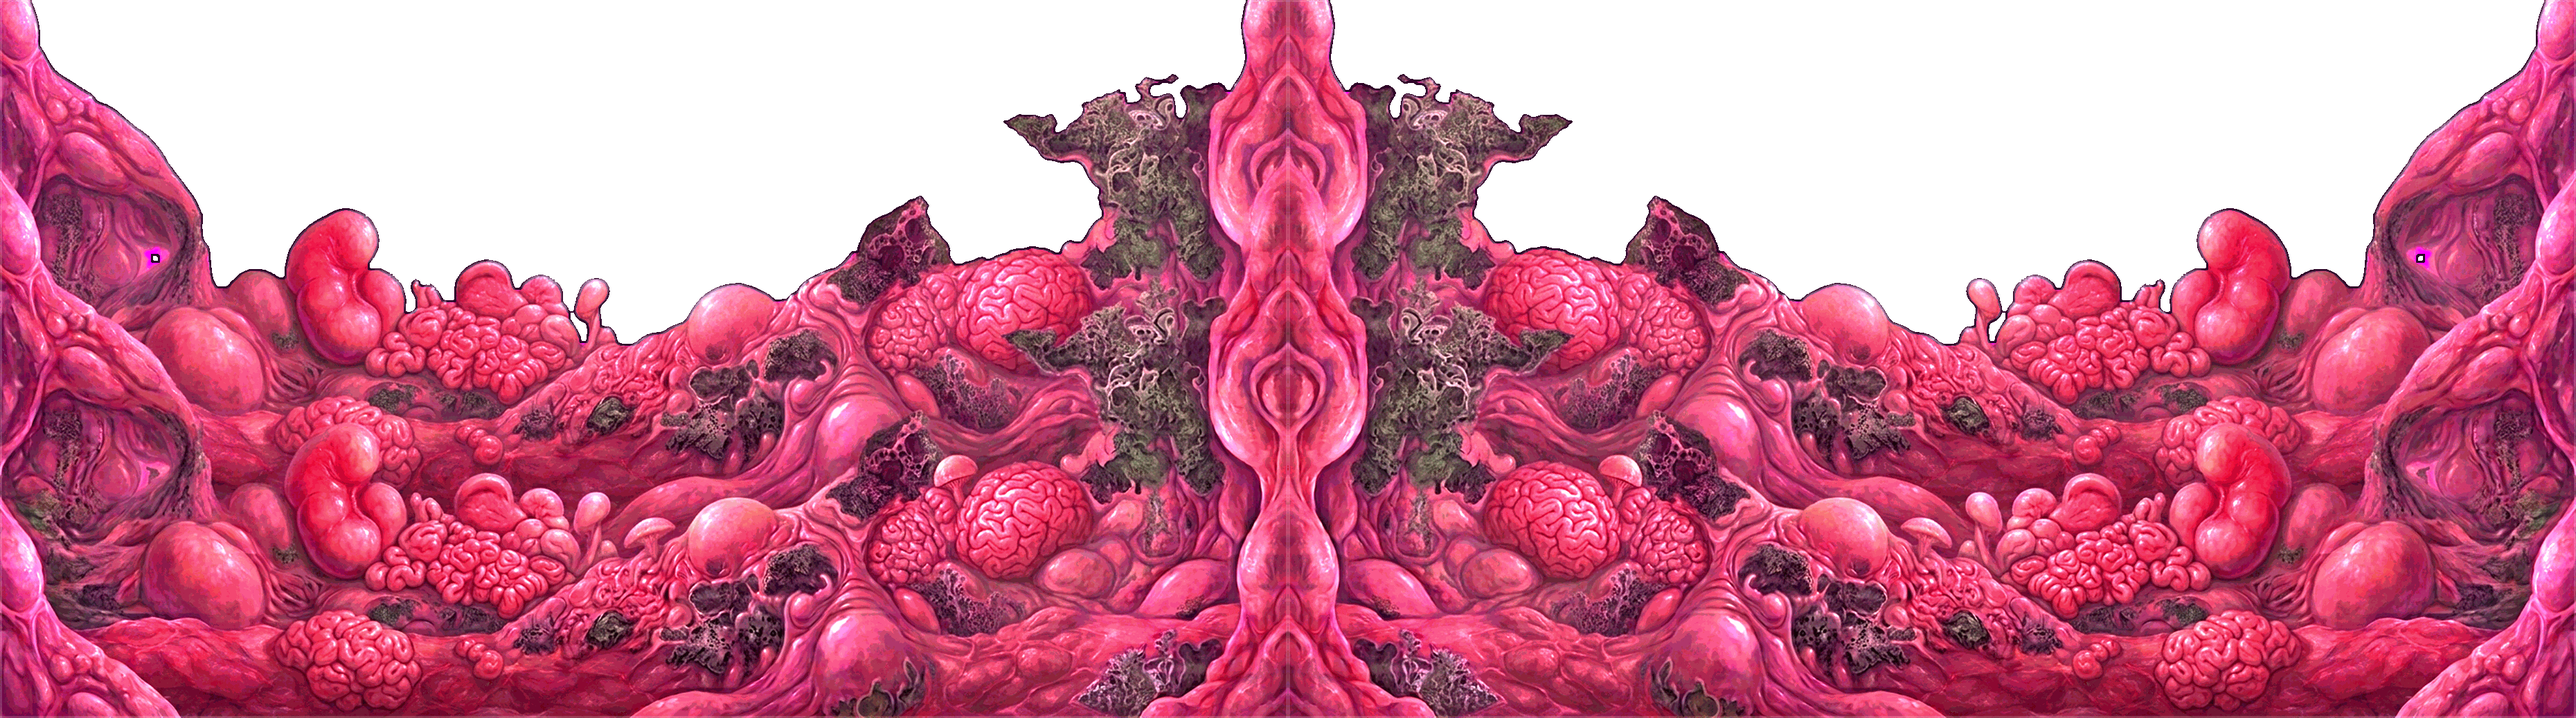
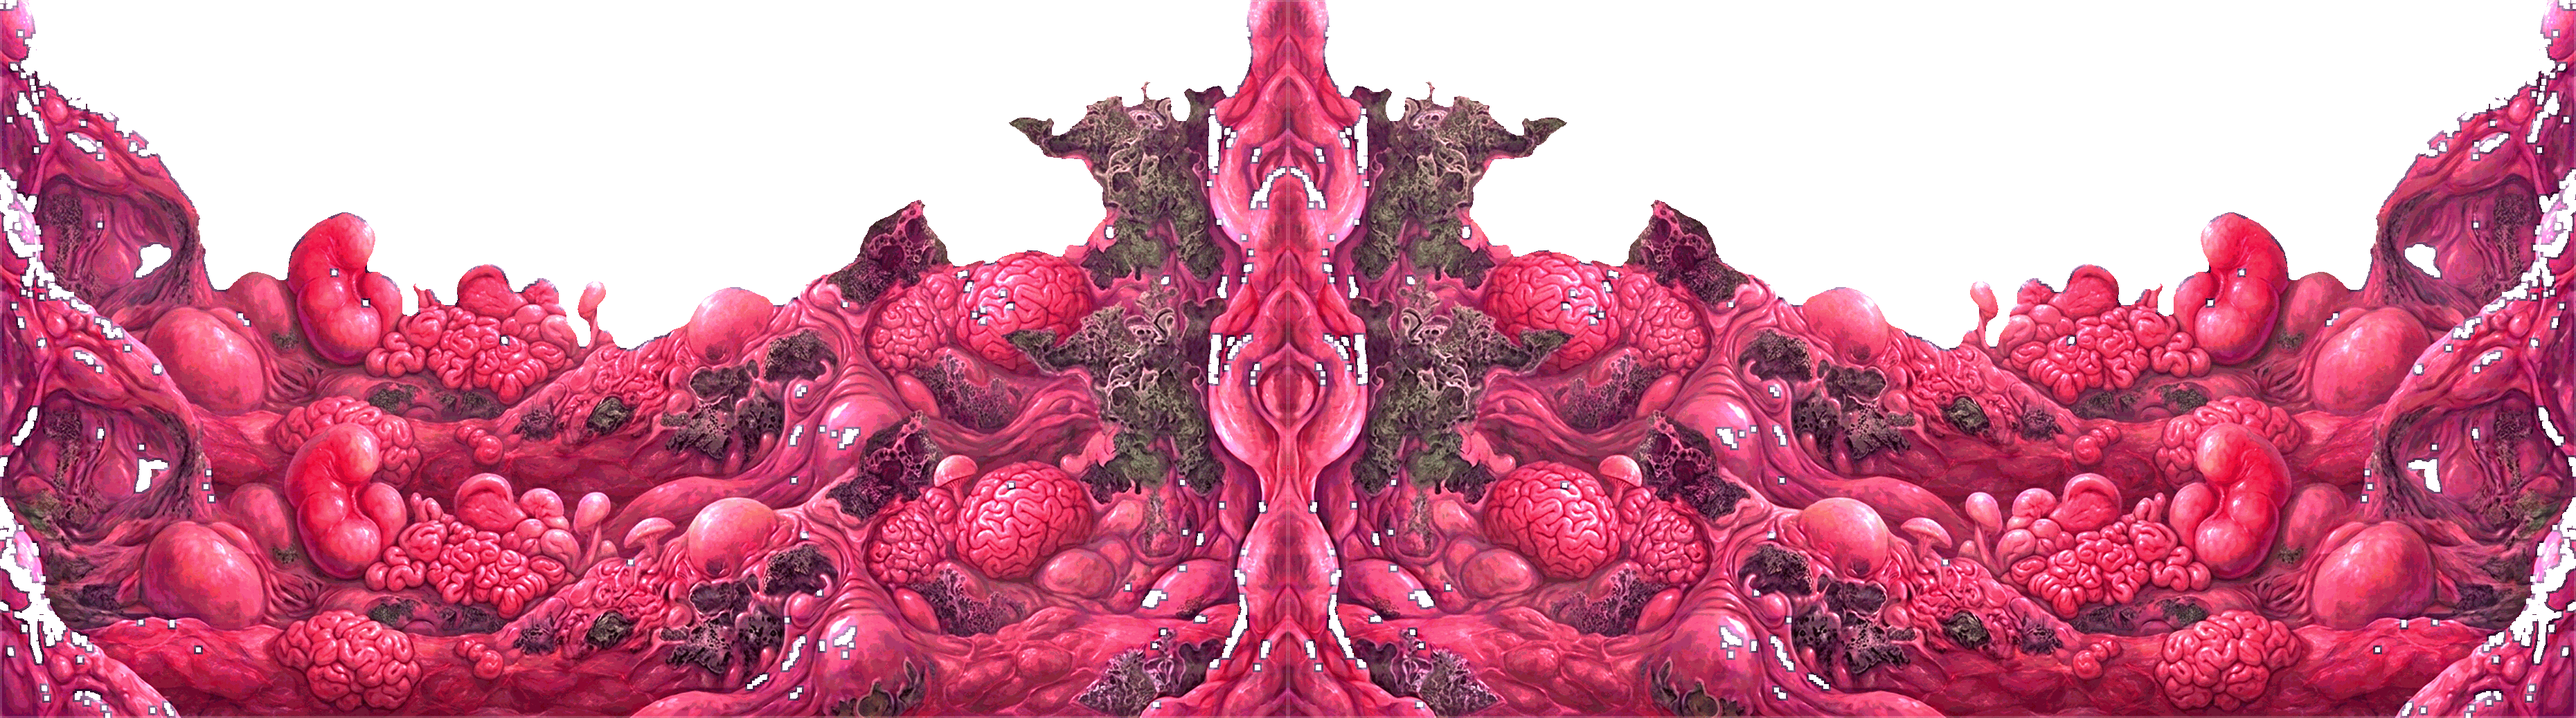
Tinte piu' discrete, chiazze di magenta rimaste, e il parallasse tornato a tre piani
TINTE DELL'INFEZIONE TROPPO FORTI (utente). Ora c'e' una manopola sola,
GameGfx.FORZA_TEMA (0,6), che smorza insieme tinte del fondale, colore della
carne e velo. ⚠ Manopola unica e volutamente sola: senza, per ammorbidire
avrei dovuto ritoccare a mano diciotto colori piu' i veli, e l'equilibrio fra i
temi si sarebbe sfaldato al primo ripensamento. La carne si smorza verso quella
del tema BASE, non verso il bianco: e' li' che il gioco "torna normale".

CHIAZZA DI MAGENTA NEL MENU. Non era la frangia del bordo gia' trattata: erano
16.240 pixel di CHIAVE che lo scontorno non aveva riconosciuto affatto, rimasti
opachi in mezzo all'arte (il menu mostra il set dell'ultimo livello giocato, ecco
perche' si vedeva li'). Succede dove il magenta della sorgente e' sporco — JPEG,
ombre — e cade fuori dalla tolleranza. rifinisci_sfondo.py ora fa una passata con
regola strettissima (rosso e blu quasi al massimo, verde molto basso: l'arte rosa
non ci arriva mai): 66.000 e 63.000 pixel tolti fra i due set, zero rimasti.

DUE PIANI DI PARALLASSE INVECE DI TRE. Verificato fotografando gli strati uno per
uno: il primo piano dei set nuovi ha tutto il contenuto sotto la linea del
terreno, quindi era invisibile.
 - aggiunta GameGfx.SET_STRATI, una regolazione di inquadratura per set (e'
   inquadratura: si taratura guardando, non calcolando);
 - ⚠ e corretto un mio errore di ieri: la regola "copri tutto lo schermo",
[…]

diff --git a/src/gfx.js b/src/gfx.js
@@ -102,6 +102,16 @@ window.GameGfx = {
   // Resta come manopola se un set futuro arrivasse fuori famiglia e non si volesse ricuocerlo.
   SET_TINTE: {},
 
+  // REGOLAZIONE DELLA POSA PER SET. ⚠ I set non si inquadrano allo stesso modo: BG_LAYERS e'
+  // tarato sul set 2, e nei set nuovi il PRIMO PIANO ha il suo contenuto molto piu' in basso —
+  // finiva tutto dietro al terreno e a schermo si percepivano DUE piani invece di tre (segnalato
+  // dall'utente 2026-08-26). Qui si sposta e si scala lo strato per set, senza toccare l'arte.
+  // Numeri scelti guardando le schermate: e' inquadratura, si giudica a occhio e non a calcolo.
+  SET_STRATI: {
+    1: { near: { y: -140, scale: 1.05 } },
+    3: { near: { y: -150, scale: 1.05 } },
+  },
+
   // Fonde due tinte canale per canale (tema x set): moltiplicare due tinte equivale a passarle
   // una dopo l'altra, ed e' l'unico modo di tenerle indipendenti.
   fondiTinte(a, b) {
@@ -111,9 +121,27 @@ window.GameGfx = {
 
   // La tinta finale di uno strato: quella del tema, corretta per il set in uso.
   tintaStrato(i) {
-    const tema = (this.temaAttivo().strati || [])[i] || 0xffffff;
+    const piena = (this.temaAttivo().strati || [])[i] || 0xffffff;
+    // Smorzata verso il bianco, che per una tinta vuol dire "nessun effetto".
+    const tema = this.mescola(0xffffff, piena, this.FORZA_TEMA);
     const set = this.SET_TINTE[this.bgSetFor((window.GameState && window.GameState.level) || 1)];
     return set ? this.fondiTinte(tema, set) : tema;
+  },
+
+  // QUANTO PESA IL TEMA, da 0 (nessun effetto) a 1 (i valori scritti in TEMI per intero).
+  // ⚠ Manopola unica e volutamente sola: l'utente ha detto "le tinte sono un filo troppo forti"
+  // (2026-08-26), e senza un numero solo avrei dovuto ritoccare a mano diciotto colori piu' i
+  // veli, con l'equilibrio fra i temi che si sfalda al primo ripensamento. Cosi' invece si gira
+  // questo e cambiano tutti insieme, mantenendo le proporzioni fra un tema e l'altro.
+  FORZA_TEMA: 0.6,
+
+  // Mescola due colori canale per canale (0 = tutto A, 1 = tutto B).
+  mescola(a, b, q) {
+    const c = (spost) => {
+      const va = (a >> spost) & 255, vb = (b >> spost) & 255;
+      return Math.round(va + (vb - va) * q);
+    };
+    return (c(16) << 16) | (c(8) << 8) | c(0);
   },
 
   // Il tema di questa run. ⚠ Legge il grado di infezione SCELTO, non il record: si guarda cio' che
@@ -128,7 +156,23 @@ window.GameGfx = {
   // le funzioni che la leggono sono quattro e sparse (terreno, soffitto, pedane, timpano), e
   // aggiungere un parametro a tutte avrebbe dato quattro punti in cui dimenticarselo.
   applicaTema(scene) {
-    const t = this.temaAttivo();
+    const pieno = this.temaAttivo();
+    const base = this.TEMI[0];
+    const q = this.FORZA_TEMA;
+    // La CARNE si smorza verso quella del tema base (il cerume), non verso il bianco: e' li' che
+    // il gioco "torna normale", e mescolare col bianco avrebbe schiarito il terreno invece di
+    // riportarlo a casa.
+    const t = {
+      id: pieno.id,
+      strati: pieno.strati,
+      atmosfera: pieno.atmosfera,
+      carne: {
+        profondo: this.mescola(base.carne.profondo, pieno.carne.profondo, q),
+        crosta: this.mescola(base.carne.crosta, pieno.carne.crosta, q),
+        bordo: this.mescola(base.carne.bordo, pieno.carne.bordo, q),
+      },
+      velo: pieno.velo ? { colore: pieno.velo.colore, alpha: pieno.velo.alpha * q } : null,
+    };
     this.CARNE = t.carne;
     scene._tema = t;
   },
@@ -614,16 +658,23 @@ window.GameGfx = {
       scene.bgLayers = this.BG_LAYERS.map((L, i) => {
         const key = keys[i];
         const alta = scene.textures.get(key).getSourceImage().height;
+        // Regolazione per questo set, se ne ha una (vedi SET_STRATI).
+        const perSet = (this.SET_STRATI[set] || {})[L.role] || {};
+        const yStrato = perSet.y != null ? perSet.y : L.y;
+        const scalaVoluta = perSet.scale != null ? perSet.scale : L.scale;
         // ⚠ LO STRATO DEVE ARRIVARE IN FONDO ALLO SCHERMO, sempre. La scala scritta in BG_LAYERS
         // era tarata sulle proporzioni del set 2; i set nuovi sono piu' larghi e bassi, e con
         // quella scala il fondale finiva PRIMA del bordo inferiore — nel gioco non si vedeva
         // (terreno e soffitto coprono), nel menu si' (segnalato dall'utente 2026-08-26: "un buco
         // nell'angolo in basso a destra"). Si prende la scala piu' grande fra quella voluta e
         // quella che serve a coprire, cosi' il difetto non puo' tornare con un set futuro.
-        const serve = (H - L.y + 8) / alta;
-        const scala = Math.max(L.scale, serve);
+        // ⚠ La copertura obbligatoria vale SOLO per lo strato di fondo: e' l'unico che non puo'
+        // avere buchi, perche' dietro non c'e' nient'altro. Imporla anche agli altri li
+        // ingrandirebbe fino a coprire il fondo, che e' l'opposto del parallasse.
+        const serve = L.role === 'far' ? (H - yStrato + 8) / alta : 0;
+        const scala = Math.max(scalaVoluta, serve);
         const h = alta * scala;
-        const ts = scene.add.tileSprite(0, L.y, W, h, key)
+        const ts = scene.add.tileSprite(0, yStrato, W, h, key)
           .setOrigin(0, 0).setScrollFactor(0).setDepth(L.depth);
         ts.tileScaleX = scala; ts.tileScaleY = scala;
         if (L.alpha != null) ts.setAlpha(L.alpha);

diff --git a/tools/rifinisci_sfondo.py b/tools/rifinisci_sfondo.py
@@ -47,6 +47,22 @@ def rifinisci(f):
     bordo0 = np.asarray(vuoto0.filter(ImageFilter.MaxFilter(7))) > 0
     sporchi_prima = int((((a0 > 10) & bordo0 & (r0 - g0 > SOGLIA) & (b0 - g0 > SOGLIA))).sum())
 
+    # 1a-bis — CHIAZZE DI MAGENTA RIMASTE OPACHE. ⚠ Non e' la frangia del bordo: e' chiave che lo
+    # scontorno non ha proprio riconosciuto, e resta li' come una macchia viola in mezzo all'arte
+    # (nel set 3 erano 16.240 pixel, e si vedevano nel menu). Succede dove il magenta della
+    # sorgente e' sporco — JPEG, ombre — e finisce fuori dalla tolleranza dello scontorno.
+    # Qui la regola e' STRETTISSIMA (rosso e blu quasi al massimo, verde molto basso): l'arte rosa
+    # non ci arriva mai nemmeno dopo che e' stata ravvivata.
+    a0m = np.asarray(im, dtype=np.int16)
+    chiazza = ((a0m[:, :, 3] > 10) & (a0m[:, :, 0] > 170) & (a0m[:, :, 2] > 170) & (a0m[:, :, 1] < 100))
+    chiazze_tolte = int(chiazza.sum())
+    if chiazze_tolte:
+        # allargata di un pixel, per portarsi via anche l'alone attorno
+        maschera = Image.fromarray((chiazza * 255).astype(np.uint8)).filter(ImageFilter.MaxFilter(3))
+        alpha0 = np.asarray(im.getchannel("A")).copy()
+        alpha0[np.asarray(maschera) > 0] = 0
+        im.putalpha(Image.fromarray(alpha0))
+
     # 1a — erosione dell'alpha: il minimo su una finestra 5x5 spegne i bordi
     alpha = im.getchannel("A").filter(ImageFilter.MinFilter(EROSIONE))
     im.putalpha(alpha)
@@ -76,7 +92,8 @@ def rifinisci(f):
     peso_prima = f.stat().st_size
     pulita.quantize(colors=COLORI, method=Image.FASTOCTREE).save(f, optimize=True)
     peso_dopo = f.stat().st_size
-    print(f"{f.name}: frangia magenta {sporchi_prima} -> {sporchi_dopo} pixel"
+    print(f"{f.name}: frangia {sporchi_prima} -> {sporchi_dopo} pixel"
+          f"  |  chiazze tolte {chiazze_tolte} pixel"
           f"  |  peso {peso_prima / 1024:.0f} KB -> {peso_dopo / 1024:.0f} KB")
 
 
